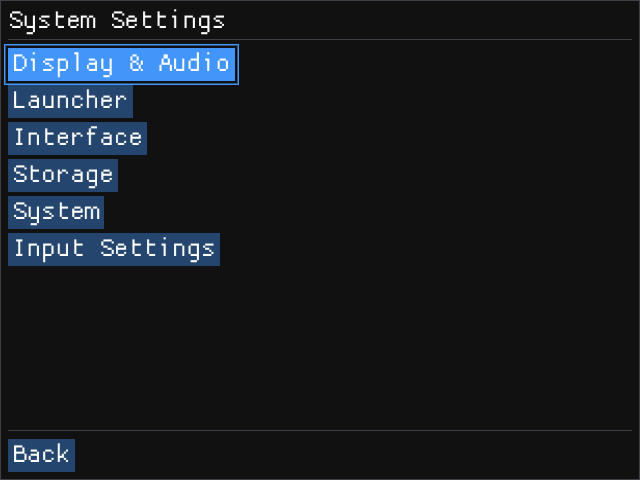
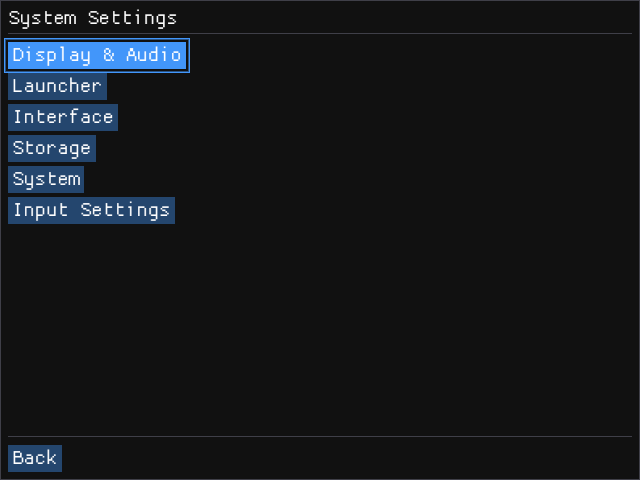
README: FN + D-pad down, the top bar, a tree of System Settings; new screenshots
Screenshots retaken with the default font, so they show the volume and
battery icons in the top bar, plus the audio output popup and the
Display & Audio page.

Changed region(s): [[0.0, 0.0, 0.9688, 0.5625], [0.0, 0.9062, 0.125, 1.0]]

diff --git a/README.md b/README.md
@@ -80,11 +80,13 @@ Puppy is goodluckOS' application launcher. It's what you see when you start good
 | --- | --- |
 | ![Puppy in grid view](docs/screenshots/puppy-grid.png) | ![Puppy in list view](docs/screenshots/puppy-list.png) |
 
-Changing the brightness (FN+Vol) or the volume shows a level bar for a moment:
+The top bar shows the volume (a headphones icon when the sound goes to the headphones only) and the battery, whose level turns yellow while charging, green when full and red at 10% or less.
 
-| Brightness | Volume |
-| --- | --- |
-| ![Brightness level bar](docs/screenshots/osd-brightness.png) | ![Volume level bar](docs/screenshots/osd-volume.png) |
+Changing the brightness (FN+Vol) or the volume shows a level bar for a moment, and FN + D-pad down shows the audio output:
+
+| Brightness | Volume | Audio output |
+| --- | --- | --- |
+| ![Brightness level bar](docs/screenshots/osd-brightness.png) | ![Volume level bar](docs/screenshots/osd-volume.png) | ![Audio output](docs/screenshots/osd-output.png) |
 
 It starts up fast, uses very little power, launches applications instantly, and uses zero RAM and CPU after launching an application.
 
@@ -121,6 +123,7 @@ Grid or list view, whether the tabs are shown and which ones are set in System S
 | SELECT + START | Close the active app cleanly (RetroArch saves first) and go back to the launcher |
 | FN + SELECT + START | Force close the active app |
 | FN + D-pad up | Show / hide a live FPS and CPU overlay |
+| FN + D-pad down | Sound on the speaker or on the headphones only (the console can't detect headphones, so this is manual) |
 
 ### RetroArch
 FN is the hotkey:
@@ -138,21 +141,48 @@ The same list is in System Settings -> Input Settings, next to a button tester.
 
 ## System Settings
 Opened with START from the launcher. Its main page is a menu of sections, each with its own page:
-- **Display & Audio**: brightness, volume and mute
-- **Launcher**: show the tabs, grid or list view, and which tabs to show (hidden tabs' games still appear in All Games and My List)
-- **Interface**: the language, and the font (Default keeps each app's own font, Inter in the launcher and ProggyClean elsewhere; or Inter, ProggyClean, VT323 or Pixelify Sans in every app)
-- **Storage**: HOME usage, `Resize Home`, and emptying the trash of games deleted in the launcher
-- **System**: a performance mode (keeps the CPU at full speed, uses more battery) and the System Info page
-- **Input Settings**: the list of every shortcut and a button tester
+
+```
+System Settings
+├── Display & Audio
+│   ├── Brightness
+│   ├── Master Volume
+│   ├── Global Mute
+│   └── Audio output: Speaker / Headphones
+├── Launcher
+│   ├── Show launcher tabs
+│   ├── Launcher view: Grid / List
+│   └── Launcher tabs ─ which tabs to show
+├── Interface
+│   ├── Language
+│   └── Font
+├── Storage
+│   ├── HOME usage
+│   ├── Resize Home
+│   └── Empty trash
+├── System
+│   ├── Performance mode (uses more battery)
+│   └── System Info
+└── Input Settings
+    ├── every shortcut
+    └── Button Tester
+```
+
+- **Launcher tabs**: hidden tabs' games still appear in All Games and My List.
+- **Font**: Default keeps each app's own font (Inter in the launcher, ProggyClean elsewhere); or Inter, ProggyClean, VT323 or Pixelify Sans in every app.
+- **Empty trash**: deletes for good the games moved to the trash in the launcher.
+- **Performance mode**: keeps the CPU at full speed.
 
 B goes back one page; Back stays at the bottom of every page. Changes are saved as soon as you make them. The page scrolls with the d-pad when it doesn't fit the screen.
 
 VT323 and Pixelify Sans are under the SIL Open Font License and ProggyClean under the MIT License; their license files are next to them in `/usr/share/fonts`.
 
-![System Settings](docs/screenshots/system-settings.png)
+| Main page | Display & Audio |
+| --- | --- |
+| ![System Settings](docs/screenshots/system-settings.png) | ![Display & Audio](docs/screenshots/system-settings-audio.png) |
 
 ## Translations
-Every text in the launcher, System Settings, the confirmation screens and `Resize Home` can be translated, and new languages need no code changes. Languages live in `/usr/share/goodluck/lang/<code>.lang` (in the repository: `rootfs/board/my-device/rootfs-overlay/usr/share/goodluck/lang/`) and show up in System Settings -> Options -> Language as soon as the file is there.
+Every text in the launcher, System Settings, the confirmation screens and `Resize Home` can be translated, and new languages need no code changes. Languages live in `/usr/share/goodluck/lang/<code>.lang` (in the repository: `rootfs/board/my-device/rootfs-overlay/usr/share/goodluck/lang/`) and show up in System Settings -> Interface -> Language as soon as the file is there.
 
 To add a language:
 1. Copy `pt-BR.lang` to a file named after your language's code, e.g. `es.lang` or `fr.lang`.
